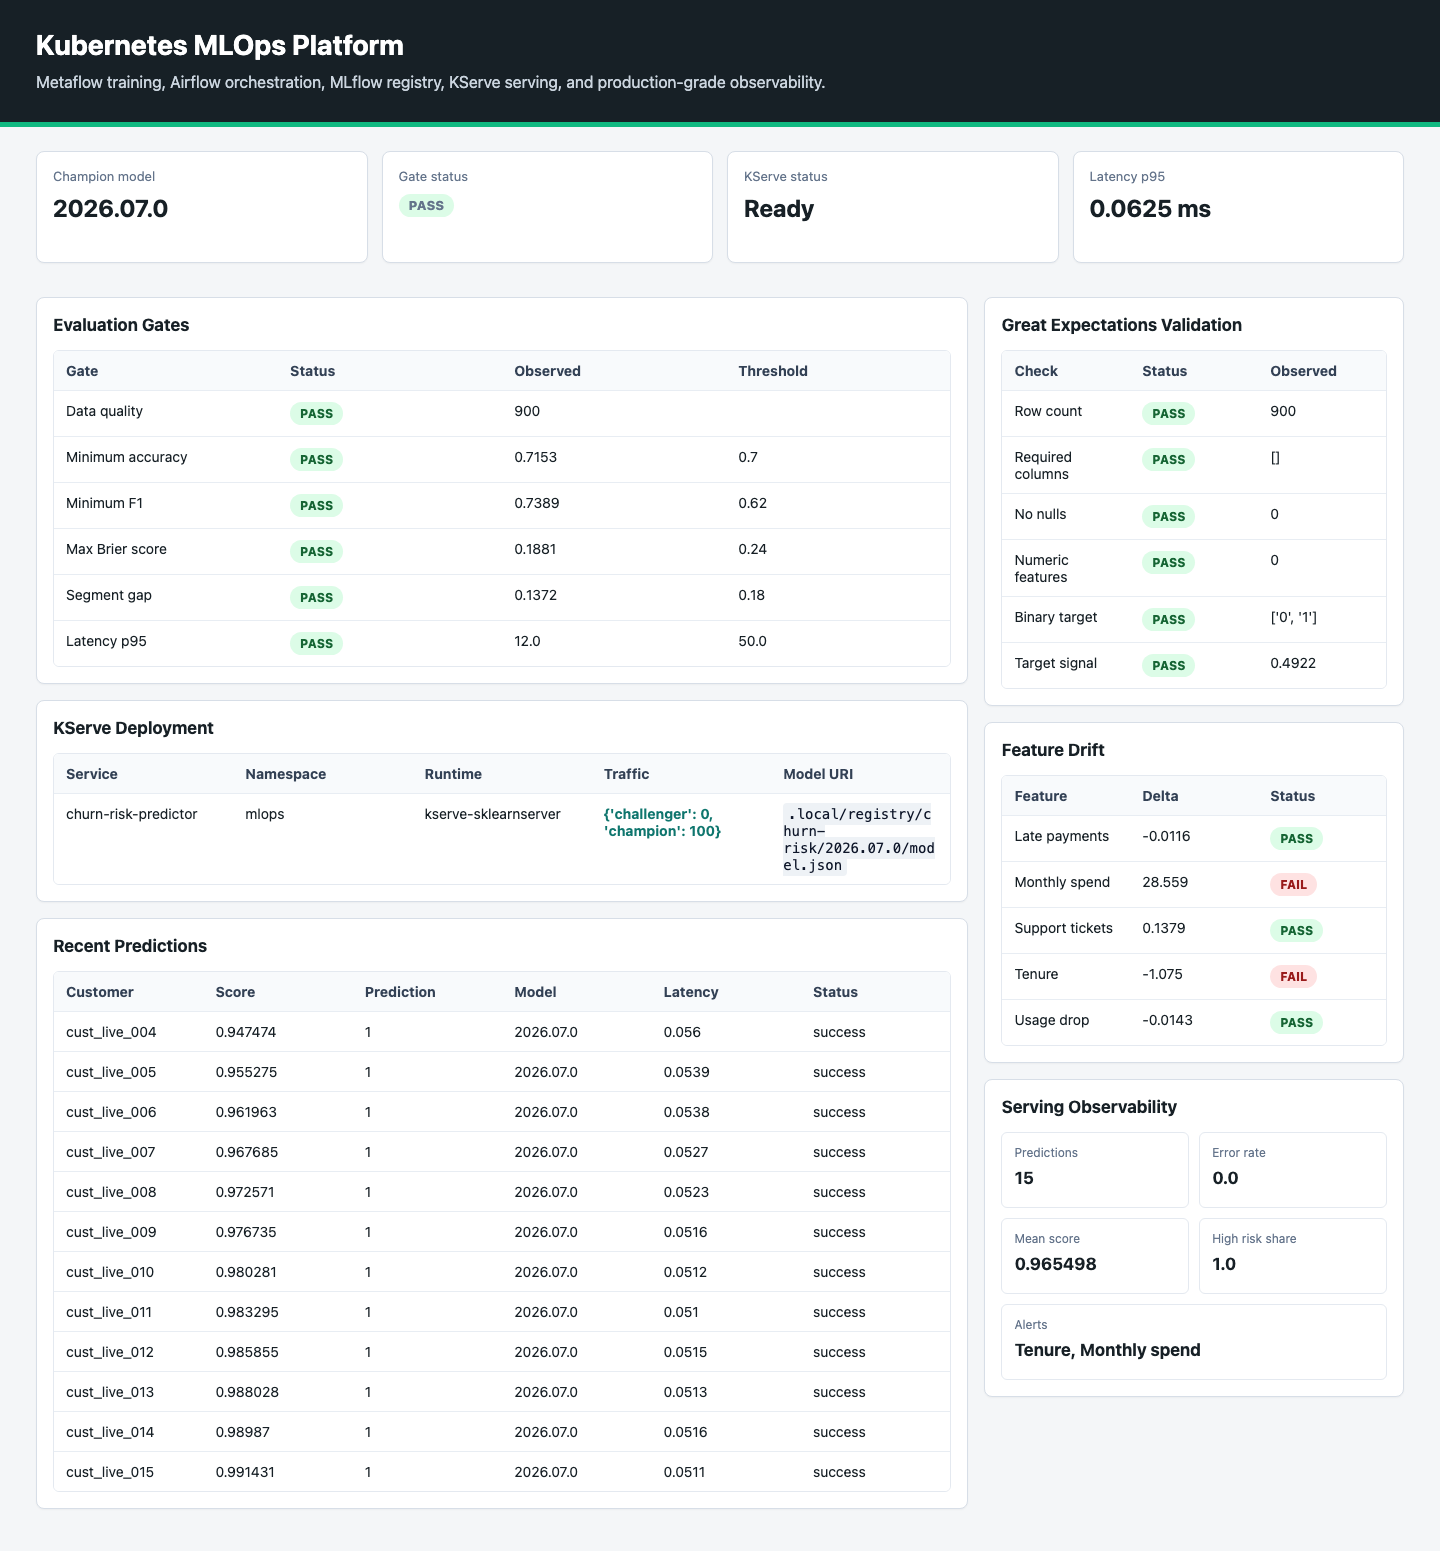
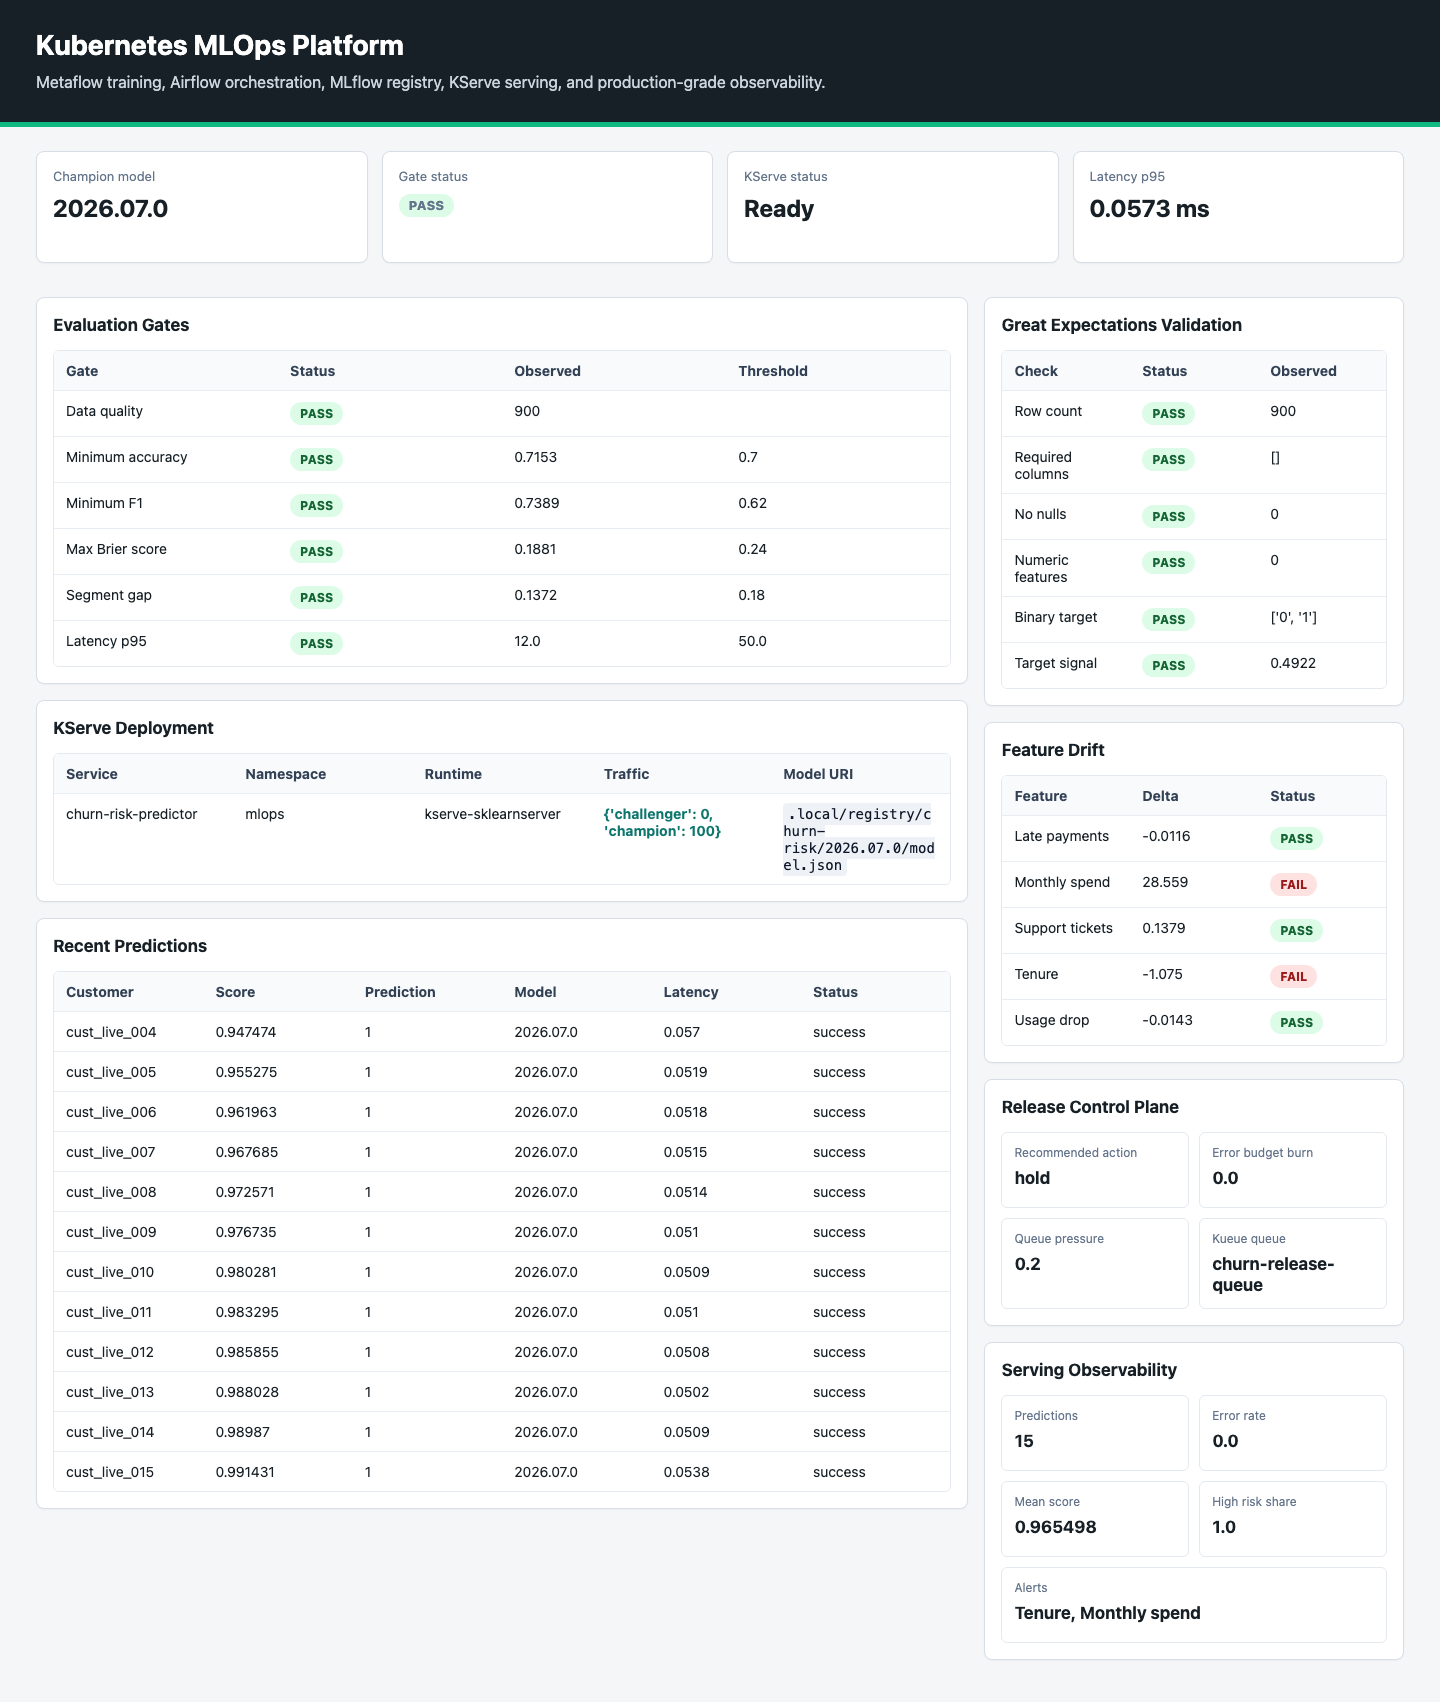
Add release control plane and event scaling

diff --git a/src/kube_mlops_platform/control_plane.py b/src/kube_mlops_platform/control_plane.py
@@ -1,0 +1,76 @@
+from __future__ import annotations
+
+from pathlib import Path
+
+from .io import read_json, write_json
+
+
+def error_budget_burn_rate(error_rate: float, *, availability_slo: float = 0.995) -> float:
+    error_budget = max(1.0 - availability_slo, 0.0001)
+    return round(error_rate / error_budget, 4)
+
+
+def queue_pressure(queued_jobs: int, available_slots: int) -> float:
+    return round(queued_jobs / max(queued_jobs + available_slots, 1), 4)
+
+
+def _load_json_or_empty(path: Path) -> dict:
+    return read_json(path) if path.exists() else {}
+
+
+def evaluate_release_policy(gate_report: dict, monitoring_report: dict, queue_state: dict) -> dict:
+    latency_p95 = float(monitoring_report.get("latency_ms", {}).get("p95", 0.0))
+    error_rate = float(monitoring_report.get("error_rate", 0.0))
+    burn = error_budget_burn_rate(error_rate)
+    pressure = queue_pressure(int(queue_state.get("queued_jobs", 0)), int(queue_state.get("available_slots", 1)))
+    drift_passed = bool(monitoring_report.get("feature_drift", {}).get("passed", True))
+    gate_passed = bool(gate_report.get("passed", False))
+    checks = [
+        {"name": "offline_gates", "passed": gate_passed, "observed": gate_passed},
+        {"name": "feature_drift", "passed": drift_passed, "observed": monitoring_report.get("feature_drift", {})},
+        {"name": "latency_p95", "passed": latency_p95 <= 50.0, "observed": latency_p95, "threshold": 50.0},
+        {"name": "error_budget_burn", "passed": burn <= 2.0, "observed": burn, "threshold": 2.0},
+        {"name": "queue_pressure", "passed": pressure <= 0.80, "observed": pressure, "threshold": 0.80},
+    ]
+    if burn >= 8.0 or error_rate >= 0.05:
+        action = "rollback"
+    elif all(check["passed"] for check in checks):
+        action = "advance_canary"
+    else:
+        action = "hold"
+    return {"action": action, "checks": checks, "error_budget_burn_rate": burn, "queue_pressure": pressure}
+
+
+def build_release_plan(root: str | Path, *, queued_jobs: int = 2, available_slots: int = 8) -> dict:
+    root = Path(root)
+    gate_report = _load_json_or_empty(root / "reports" / "gate_report.json")
+    monitoring_report = _load_json_or_empty(root / "reports" / "monitoring_report.json")
+    queue_state = {
+        "queue": "churn-release-queue",
+        "queued_jobs": queued_jobs,
+        "available_slots": available_slots,
+        "airflow_pool": "ml_platform_pool",
+        "kueue_cluster_queue": "churn-release-cluster-queue",
+    }
+    policy = evaluate_release_policy(gate_report, monitoring_report, queue_state)
+    plan = {
+        "model": "churn-risk",
+        "target": "kserve://mlops/churn-risk-predictor",
+        "recommended_action": policy["action"],
+        "queue_state": queue_state,
+        "policy": policy,
+        "stages": [
+            {"name": "validate_offline_gates", "system": "airflow", "pool_slots": 2},
+            {"name": "reserve_kueue_quota", "system": "kueue", "queue": queue_state["queue"]},
+            {"name": "deploy_canary", "system": "kserve", "traffic_percent": 10},
+            {"name": "watch_slo_budget", "system": "prometheus", "burn_rate_limit": 2.0},
+            {"name": "promote_or_rollback", "system": "airflow", "action": policy["action"]},
+        ],
+        "rollback": {
+            "trigger": "burn_rate>=8 or error_rate>=0.05",
+            "command": "make rollback",
+            "expected_recovery_minutes": 10,
+        },
+    }
+    write_json(root / "reports" / "release_control_plan.json", plan)
+    return plan

diff --git a/tests/test_kubernetes_mlops_platform.py b/tests/test_kubernetes_mlops_platform.py
@@ -5,9 +5,10 @@ import unittest
 from pathlib import Path
 
 from kube_mlops_platform.cli import demo, train
+from kube_mlops_platform.control_plane import build_release_plan, evaluate_release_policy
 from kube_mlops_platform.data import generate_churn_dataset, split_rows
 from kube_mlops_platform.gates import evaluate_gates
-from kube_mlops_platform.io import read_csv, read_json, read_jsonl
+from kube_mlops_platform.io import read_csv, read_json, read_jsonl, write_json
 from kube_mlops_platform.model import predict_score, train_model
 from kube_mlops_platform.registry import rollback
 from kube_mlops_platform.serving import health
@@ -55,6 +56,34 @@ class KubernetesMLOpsPlatformTest(unittest.TestCase):
             "kueue.x-k8s.io/queue-name",
         ]:
             self.assertIn(expected, admission)
+
+    def test_event_driven_autoscaling_assets_exist(self) -> None:
+        repo = Path(__file__).resolve().parents[1]
+        autoscaling = (repo / "kubernetes" / "event-driven-autoscaling.yaml").read_text(encoding="utf-8")
+
+        for expected in ["ScaledObject", "prometheus", "fallback", "horizontalPodAutoscalerConfig", "activationThreshold"]:
+            self.assertIn(expected, autoscaling)
+
+    def test_release_control_plane_advances_and_rolls_back(self) -> None:
+        with tempfile.TemporaryDirectory() as tmp:
+            root = Path(tmp)
+            write_json(root / "reports" / "gate_report.json", {"passed": True})
+            write_json(
+                root / "reports" / "monitoring_report.json",
+                {"latency_ms": {"p95": 18.0}, "error_rate": 0.0, "feature_drift": {"passed": True}},
+            )
+
+            plan = build_release_plan(root, queued_jobs=1, available_slots=8)
+            rollback_policy = evaluate_release_policy(
+                {"passed": True},
+                {"latency_ms": {"p95": 18.0}, "error_rate": 0.06, "feature_drift": {"passed": True}},
+                {"queued_jobs": 1, "available_slots": 8},
+            )
+
+            self.assertEqual(plan["recommended_action"], "advance_canary")
+            self.assertEqual(plan["stages"][1]["system"], "kueue")
+            self.assertTrue((root / "reports" / "release_control_plan.json").exists())
+            self.assertEqual(rollback_policy["action"], "rollback")
 
     def test_demo_promotes_champion_and_writes_dashboard(self) -> None:
         with tempfile.TemporaryDirectory() as tmp:

diff --git a/src/kube_mlops_platform/dashboard.py b/src/kube_mlops_platform/dashboard.py
@@ -64,7 +64,11 @@ def render_dashboard(
     deployment_state: dict,
     monitoring_report: dict,
     registry_metadata: dict,
+    release_plan: dict | None = None,
 ) -> Path:
+    release_plan = release_plan or {}
+    release_policy = release_plan.get("policy", {})
+    queue_state = release_plan.get("queue_state", {})
     gate_rows = [
         {
             "gate": pretty(check.get("name")),
@@ -203,6 +207,16 @@ def render_dashboard(
             <div class="panel">
               <h2>Feature Drift</h2>
               <div class="table-wrap"><table><tr><th>Feature</th><th>Delta</th><th>Status</th></tr>{rows(drift_rows, ['feature', 'delta', 'flagged'])}</table></div>
+            </div>
+
+            <div class="panel">
+              <h2>Release Control Plane</h2>
+              <div class="summary-grid">
+                <div class="summary-item"><span>Recommended action</span><strong>{esc(release_plan.get('recommended_action', 'not planned'))}</strong></div>
+                <div class="summary-item"><span>Error budget burn</span><strong>{esc(release_policy.get('error_budget_burn_rate', 'n/a'))}</strong></div>
+                <div class="summary-item"><span>Queue pressure</span><strong>{esc(release_policy.get('queue_pressure', 'n/a'))}</strong></div>
+                <div class="summary-item"><span>Kueue queue</span><strong>{esc(queue_state.get('queue', 'n/a'))}</strong></div>
+              </div>
             </div>
 
             <div class="panel">

diff --git a/src/kube_mlops_platform/cli.py b/src/kube_mlops_platform/cli.py
@@ -4,6 +4,7 @@ import argparse
 import json
 from pathlib import Path
 
+from .control_plane import build_release_plan
 from .dashboard import render_dashboard
 from .data import generate_churn_dataset, split_rows
 from .gates import evaluate_gates
@@ -102,6 +103,7 @@ def monitor(output: str | Path) -> dict:
         predict_once(root)
     generate_churn_dataset(root / "data" / "current_scoring.csv", rows=240, seed=99, drift=True)
     report = build_monitoring_report(root)
+    release_plan = build_release_plan(root)
     dashboard = render_dashboard(
         root / "reports" / "mlops_platform_dashboard.html",
         validation_report=read_json(root / "reports" / "data_validation.json"),
@@ -109,8 +111,9 @@ def monitor(output: str | Path) -> dict:
         deployment_state=read_json(root / "deployments" / "kserve_state.json"),
         monitoring_report=report,
         registry_metadata=champion_metadata(root),
+        release_plan=release_plan,
     )
-    return {"monitoring": report, "dashboard": str(dashboard)}
+    return {"monitoring": report, "release_plan": release_plan, "dashboard": str(dashboard)}
 
 
 def rollback(output: str | Path) -> dict:
@@ -130,13 +133,14 @@ def demo(output: str | Path) -> dict:
         "deploy": deploy_result,
         "predictions": predictions,
         "monitor": monitor_result,
+        "release_plan": monitor_result["release_plan"],
     }
 
 
 def main(argv: list[str] | None = None) -> int:
     parser = argparse.ArgumentParser(description="Kubernetes-native MLOps platform")
     sub = parser.add_subparsers(dest="command", required=True)
-    for command in ["demo", "train", "evaluate", "deploy", "predict", "monitor", "rollback", "health"]:
+    for command in ["demo", "train", "evaluate", "deploy", "predict", "monitor", "rollback", "health", "plan-release"]:
         cmd = sub.add_parser(command)
         cmd.add_argument("--output", default=".local")
         if command == "train":
@@ -158,4 +162,6 @@ def main(argv: list[str] | None = None) -> int:
         print(json.dumps(rollback(args.output), indent=2, sort_keys=True))
     elif args.command == "health":
         print(json.dumps(health(args.output), indent=2, sort_keys=True))
+    elif args.command == "plan-release":
+        print(json.dumps(build_release_plan(args.output), indent=2, sort_keys=True))
     return 0

diff --git a/docs/control-plane-depth.md b/docs/control-plane-depth.md
@@ -1,0 +1,22 @@
+# Advanced Control Plane Layer
+
+This repo now includes a local release control plane in `src/kube_mlops_platform/control_plane.py`.
+
+## Operator Workflow
+
+- Run `make demo` to generate model, gate, deployment, and monitoring artifacts.
+- Run `make plan-release` to generate `reports/release_control_plan.json`.
+- Inspect the recommended action: `advance_canary`, `hold`, or `rollback`.
+
+## What The Planner Uses
+
+- Offline model gate status.
+- Feature drift status.
+- P95 latency.
+- Error-budget burn rate for a 99.5 percent availability target.
+- Kueue queue pressure for release jobs.
+- Airflow pool name and Kueue queue identity.
+
+## Production Signal
+
+The planner separates model quality from platform readiness. A model can pass offline gates and still be held because the serving layer is burning error budget or because shared cluster capacity is saturated.

diff --git a/README.md b/README.md
@@ -94,6 +94,8 @@ For the latest heavyweight orchestration pass, see [advanced orchestration asses
 
 For the Kubernetes/Airflow robustness layer, see [Kubernetes and Airflow robustness](docs/kubernetes-airflow-robustness.md).
 
+For the operator-facing release planner, see [advanced control plane layer](docs/control-plane-depth.md).
+
 ## Promotion Gates
 
 Promotion requires every gate to pass: